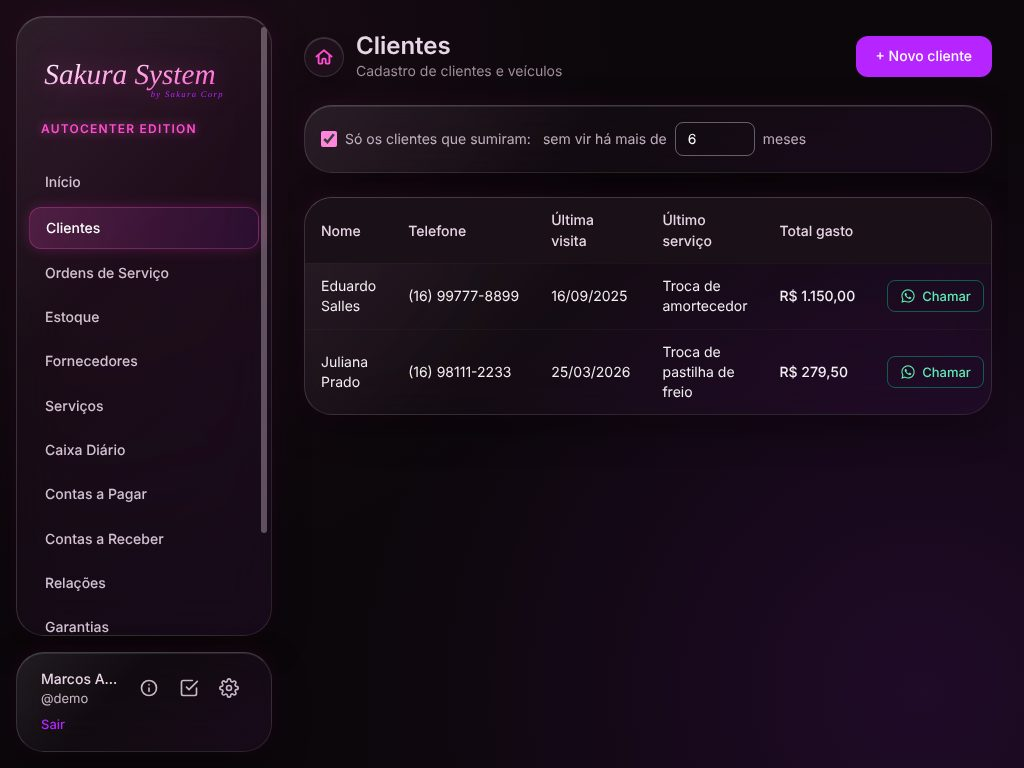
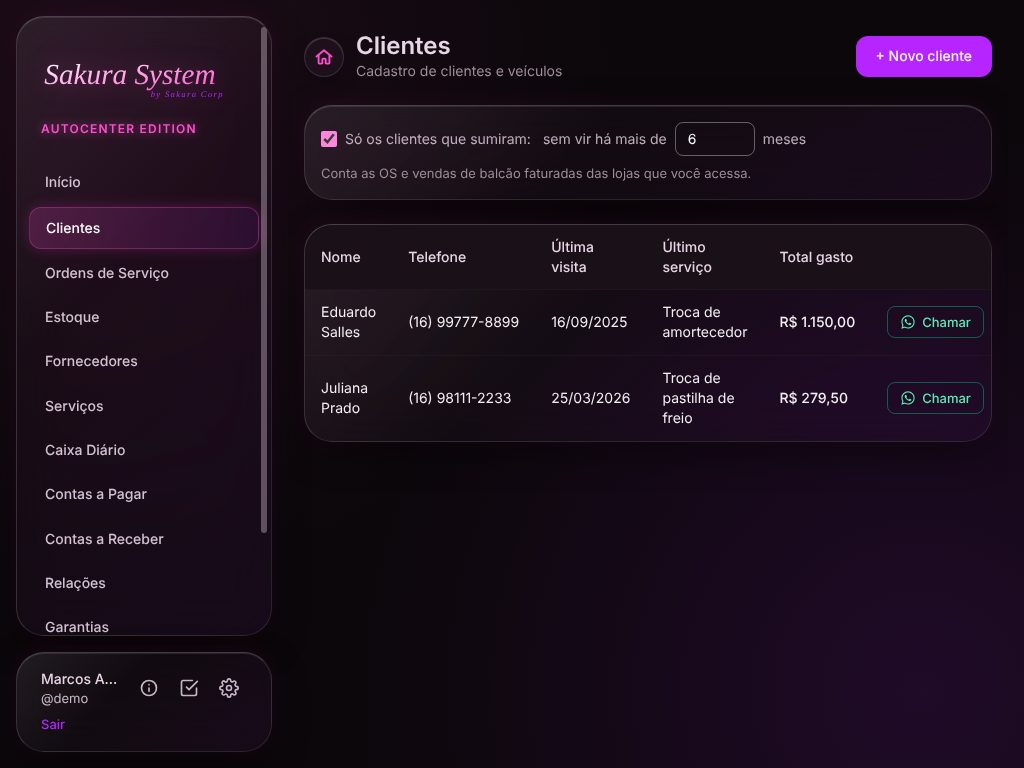
Relatório e fotos da #455 depois da revisão final
Claude-Session: https://claude.ai/code/session_01UQgX98HG5gGxWKLWzwgnz5

diff --git a/docs/relatorios/2026-10-20-tarefa-455-frontend.md b/docs/relatorios/2026-10-20-tarefa-455-frontend.md
@@ -10,7 +10,7 @@
 - Explorador (`ajudante-rapido`): mapeou os botões de WhatsApp e o registro de abertura, a regra de "ver valores", as buscas de OS e os tipos.
 - Backend (`ajudante-forte`): escreveu `src/schemas/clientesSumidos.ts` com 22 testes, cada etapa vista reprovar antes, e 8 quebras de propósito.
 - Sessão mãe: modelo `cliente_sumido`, busca em `src/lib/clientesSumidos.ts`, tela, teste de tela, fotos e conferências.
-- Revisor (`ajudante-forte`): revisão final do diff do zero (resultado em "O que testei").
+- Revisor (`ajudante-forte`): revisão final do diff do zero, com 18 quebras de propósito. Nada bloqueava; dois "deveria", os dois corrigidos: (1) trocar de loja com o filtro ligado misturava o texto e os "chamado em" da loja anterior; (2) o `docs/modulos.md` dizia "todas as lojas", mas o RLS só devolve as que o operador acessa. Também fiz os opcionais baratos: sem o Consumidor na busca, erro desmarca o filtro, `diaBrasileiro` no lugar de uma cópia, teste de meses = 0.
 
 ## Modelos usados
 - Planejar, tela e WhatsApp: sessão mãe (forte), esforço do padrão da sessão.
@@ -24,19 +24,21 @@
 - nenhuma (a issue diz `Sessões filhas: não`).
 
 ## Gasto
-- **Uso da sessão mãe**: ver o fim deste arquivo (medido pelo arquivo, antes do PR).
-- **Ajudantes**: 3. Explorador ~92 mil (aviso); conta ~99 mil (aviso); revisor (aviso, ver abaixo).
+- **Uso da sessão mãe** (arquivo, antes do PR): 83 respostas; entrada 178, cache criado ~174 mil, cache lido ~13,8 milhões, saída ~47 mil.
+- **Ajudantes**: 3. Explorador (rápido): ~92 mil (aviso); arquivo: cache criado ~86 mil, lido ~641 mil, saída 646. Conta (forte, alto): ~99 mil (aviso); arquivo: criado ~96 mil, lido ~1,2 milhão. Revisor (forte, alto): ~139 mil (aviso); arquivo: criado ~93 mil, lido ~3,7 milhões.
 - **Sessões filhas**: nenhuma.
-- **`/goal`**: ligado nesta sessão no meio do trabalho (chegou como comando, antes do PR). Como parou: não sei ao escrever (a coordenadora confere).
+- **`/goal`**: ligado nesta sessão depois do primeiro commit (chegou como comando de tela, com limite de 60 turnos). Como parou: não sei ao escrever este relatório (a coordenadora confere).
 
 ## O que testei e VI reprovar
 - **A conta** (`clientesSumidos.test.ts`, 22 testes): reprovaram com a função vazia, em três etapas. E pegaram as quebras: contar a "concluída"; `.slice(0, 10)` no lugar de `diaLocal` (o teste de 22h30 de 30/04 em Brasília); `<=` no lugar de `<` no corte dos 6 meses; soma sem `somar` (150,10 + 0,20); `subtrairMeses` sem prender no fim do mês (31/08 → 28/02 e 29/02 bissexto); empate sem desempate; cliente que nunca veio aparecendo. Uma quebra (última ordem comparada só pelo dia) **não** reprovou na primeira vez; o teste foi corrigido e aí reprovou.
 - **O modelo de WhatsApp** (`whatsapp.test.ts`): reprovou com "Modelo de WhatsApp desconhecido" antes de o modelo existir.
-- **A tela** (`ClientesPage.test.tsx`, 6 testes): os 6 reprovaram antes do filtro existir. Quebras: total sempre visível → reprova "o total gasto some pra quem não pode ver valores"; `{veiculo}` fixo → reprovam os 2 testes da mensagem.
+- **A tela** (`ClientesPage.test.tsx`, 7 testes): os 6 primeiros reprovaram antes do filtro existir. Quebras: total sempre visível → reprova "o total gasto some pra quem não pode ver valores"; `{veiculo}` fixo → reprovam os 2 testes da mensagem. O 7º (trocar de loja) reprovou antes do conserto da revisão.
+- **Meses = 0** na conta: tirando o "pelo menos 1", o teste novo reprova (o antigo não pegava).
 
 ## O que passou sem eu ter visto reprovar
 - O teste "quem tem Relações vê o total" (ele só passou; o oposto foi o que vi reprovar).
-- `typecheck`, `lint` (1 aviso antigo, em `AuthContext.tsx`), `contraste`, `test:fusos` (892 nos dois fusos), `contraste:telas` e `largura:telas` (62 telas, 5 larguras): verdes.
+- `typecheck`, `lint` (1 aviso antigo, em `AuthContext.tsx`), `contraste`, `test:fusos` (893 nos dois fusos), `contraste:telas` e `largura:telas` (62 telas, 5 larguras): verdes, rodados de novo depois dos acertos.
+- Fotos em `docs/relatorios/fotos/tarefa-455/` (1024 e 1600, com dados de exemplo).
 - As varreduras de tela rodaram com uma **cena temporária** do filtro ligado e dados de exemplo mudados (duas OS antigas faturadas), **sem commit**: a cena não está no PR (`site/ferramentas/` não está na lista da issue).
 
 ## O que ficou de fora
